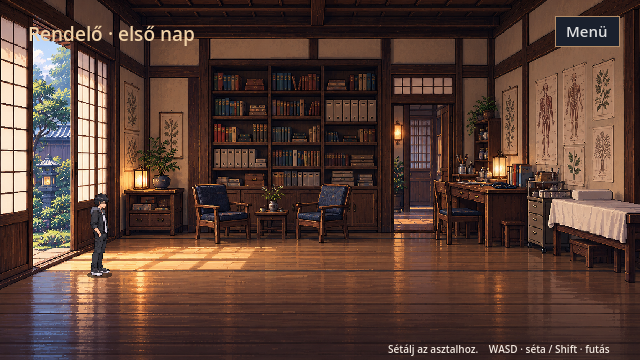
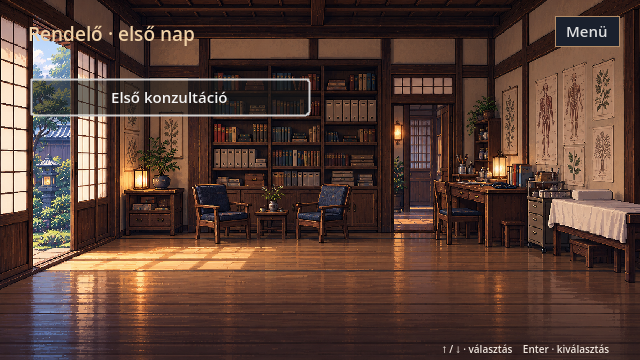
Use VN backdrops and deliberate actions in bedroom and clinic

Changed region(s): [[0.0312, 0.2139, 0.5, 0.3361], [0.125, 0.5194, 0.1875, 0.7944], [0.5938, 0.9472, 0.9688, 1.0]]

diff --git a/docs/ROOM_CLINIC_VN_REVIEW.md b/docs/ROOM_CLINIC_VN_REVIEW.md
@@ -1,0 +1,27 @@
+# Szoba és rendelő — VN-megjelenítés
+
+2026-10-04. Tulajdonosi visszajelzés: az új hátterek jók VN-hez, de a mozgatható Akira aránya természetellenesen kicsi bennük. A tulajdonos engedélyezte az irányítás kivételét vagy más játszható tér készítését. A képeket megtartjuk és VN-háttérként használjuk.
+
+Ez a változás felülírja a FIRST_NIGHT_IMPLEMENTATION_REVIEW.md és FIRST_DAY_IMPLEMENTATION_REVIEW.md korábbi, szobai/rendelői járásra és koordinátához kötött E-interakciókra vonatkozó leírását.
+
+## Megjelenítés és kezelés
+
+Akira szobájában nincs járó sprite vagy WASD-vezérlés. Az ablak, táska, fénykép, lefekvés és nappaliba visszalépés külön gombbal választható. Egér vagy fel/le és Enter kezeli őket. A fényképet kihagyó lefekvés továbbra is bemutatja a személyes nyomot.
+
+A rendelőben ugyanez a kezelés indítja sorban az első/második konzultációt, a nap összegzését és az esti visszatérést. A reggeli és esti háttér előtt sem jelenik meg a kicsi járó Akira. Az esti visszatérés közvetlenül a Miyako VN-be vezet.
+
+Az eredeti, korábban jóváhagyott Village Street/híd/ház és az első benti nappali-sáv játékosvezérelt marad. A szobai Vissza a nappaliba gomb ugyanebbe a meglévő sávba vezet; annak jobb szélén E visszavisz a VN-szobába. A szoba/rendelő képei nem új méretarányos pályák.
+
+A menü szüneteltetése és a párbeszédek nyugtázása megmarad. A frissen megjelenő interakciós gombok csak az előző Enter/Space/E/kattintás elengedése után aktiválódnak; az utolsó mondat továbblépése nem választ ki véletlenül új műveletet.
+
+## Történet és assetek
+
+Szövegek, választáshatások, konzultáció-sorrend, clue-flag-ek és a Hana záróhang változatlanok. LOCKED karakterdizájnt nem módosítottunk. A képek REVIEW státuszban maradnak.
+
+A két páciensportré, fénykép-CG és production hangok korábbi hiánya változatlan. Későbbi járható szoba/rendelő külön, az Akira sprite méretéhez és kamerájához tervezett háttérre/rétegekre szorul; a mostani képeket nem kell eldobni.
+
+## Ellenőrzés
+
+night_day_regression: teljes éjszaka–első nap két döntési ágon, valódi Enterrel választott interakciók, WASD nem mozgat rejtett Akirát a szobában, nincs járó sprite a rendelőben és esti VN-ben, nappali oda-vissza, egyszeri történeti hatások és külön lezárások.
+
+interior_regression: meglévő házbelépés és mindkét választás, Miyako melletti átjárás, VN-szobába lépés, lefekvés és fényképes fallback. REVIEW képek: night_room_REVIEW.png, clinic_REVIEW.png, morning_REVIEW.png.

diff --git a/README.md b/README.md
@@ -16,9 +16,9 @@ A szünetmenüben folytatás, karakterlapok és kapcsolati státusz, hangerő, t
 
 ## Aktuális állapot
 
-Miyako előtt E indítja az első VN-jelenetet. E / Space / Enter / bal kattintás kiírja az aktuális mondatot, majd továbblép. A beszélgetés megvárja az olvasót. Utána újabb E belép a házba: benti beszélgetés, két eredeti választás, majd bejárható belső sáv. Jobbra E → Akira szobája. Ablak, orvosi táska, fénykép; jobbra E: lefekvés. Az első éjszaka külön lezárásából explicit folytatás vezet a reggelhez.
+Miyako előtt E indítja az első VN-jelenetet. E / Space / Enter / bal kattintás kiírja az aktuális mondatot, majd továbblép. A beszélgetés megvárja az olvasót. Utána újabb E belép a házba: benti beszélgetés, két eredeti választás, majd bejárható belső sáv. Jobbra E → Akira VN-szobája, ahol gombokkal választható az ablak, az orvosi táska, a fénykép és a lefekvés. Az első éjszaka külön lezárásából explicit folytatás vezet a reggelhez.
 
-Reggel Miyakóval és két eredeti döntés → rendelő. Középen E indítja a két konzultációt egymás után, majd újabb E a nap tanulságait és Katsuro füzetét. Utána a bal szélen E → nappali; Miyakóhoz sétálva E → esti beszélgetés → második éjszakai „Hana” záróhang → az első nap vége. [Első éjszaka](docs/FIRST_NIGHT_IMPLEMENTATION_REVIEW.md), [első nap, források és hiányok](docs/FIRST_DAY_IMPLEMENTATION_REVIEW.md).
+Akira szobája és a rendelő VN-háttérként működik, járó Akira nélkül. Egér vagy fel/le + Enter választja a megfigyeléseket, a lefekvést és a két konzultációt. Reggel Miyakóval és két eredeti döntés → rendelő → nap tanulságai és Katsuro füzete → esti beszélgetés → második éjszakai „Hana” záróhang → az első nap vége. [Aktuális VN-kezelés](docs/ROOM_CLINIC_VN_REVIEW.md), [éjszaka története](docs/FIRST_NIGHT_IMPLEMENTATION_REVIEW.md), [első nap és hiányok](docs/FIRST_DAY_IMPLEMENTATION_REVIEW.md).
 
 REVIEW / PLACEHOLDER: négy női ambient NPC, mozgás, kamera, eső, járható úthatárok, előtér-takarás, kapunál állapotbiztos átadás, híd és Miyako köszöntése. Az oldalirányú járás nyolc képkockás, az előre/hátra ciklus négyképkockás. Ez nem a teljes 10–15 perces történeti flow.
 

diff --git a/docs/PROGRESS.md b/docs/PROGRESS.md
@@ -4,6 +4,8 @@ Hana, Kuroe és Shion korai cameója működik REVIEW atlasszal, névtábla/dial
 
 Frissítve: 2026-10-04. Technikai REVIEW; a LOCKED kreatív döntések változatlanok.
 
+Tulajdonosi arány-visszajelzés alapján az új szoba/rendelő VN-háttér lett, járó Akira nélkül. Gombok vagy fel/le + Enter indítják a megfigyeléseket és a nap állomásait. Az eredeti nappali- és külső járás megmaradt. [Megjelenítés és ellenőrzés](ROOM_CLINIC_VN_REVIEW.md).
+
 Karakterlapok, leírások és megtörtént eseményekből képzett kapcsolati státusz implementálva. Első éjszaka külön lezárással → közös reggel → két bővített eredeti névtelen konzultáció → Katsuro rendelői füzete → esti beszélgetés Miyakóval → „Hana” záróhang és első napi végpont működik. A teljes éjszaka–nap lánc egyben átnézhető. Inventory később. [Éjszaka](FIRST_NIGHT_IMPLEMENTATION_REVIEW.md), [első nap, források és production hiányok](FIRST_DAY_IMPLEMENTATION_REVIEW.md).
 
 Játék közbeni szünetmenü és Shift-futás működik. A menü az intró és a VN idővonalát is megállítja. Külön REVIEW oldalfutó atlasz, front/back futás még ideiglenes. [Részletek és ellenőrzés](PAUSE_AND_RUN_REVIEW.md).
